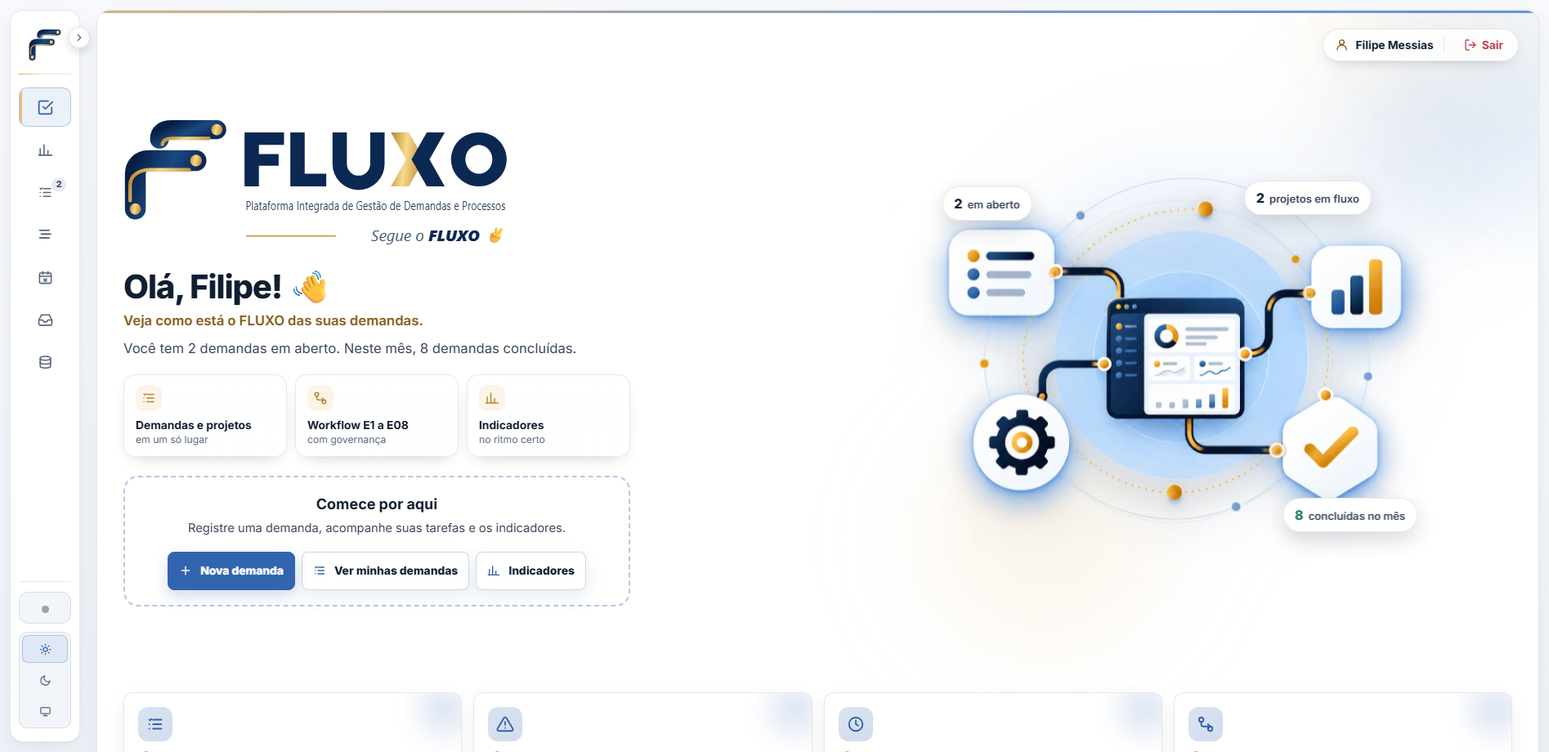
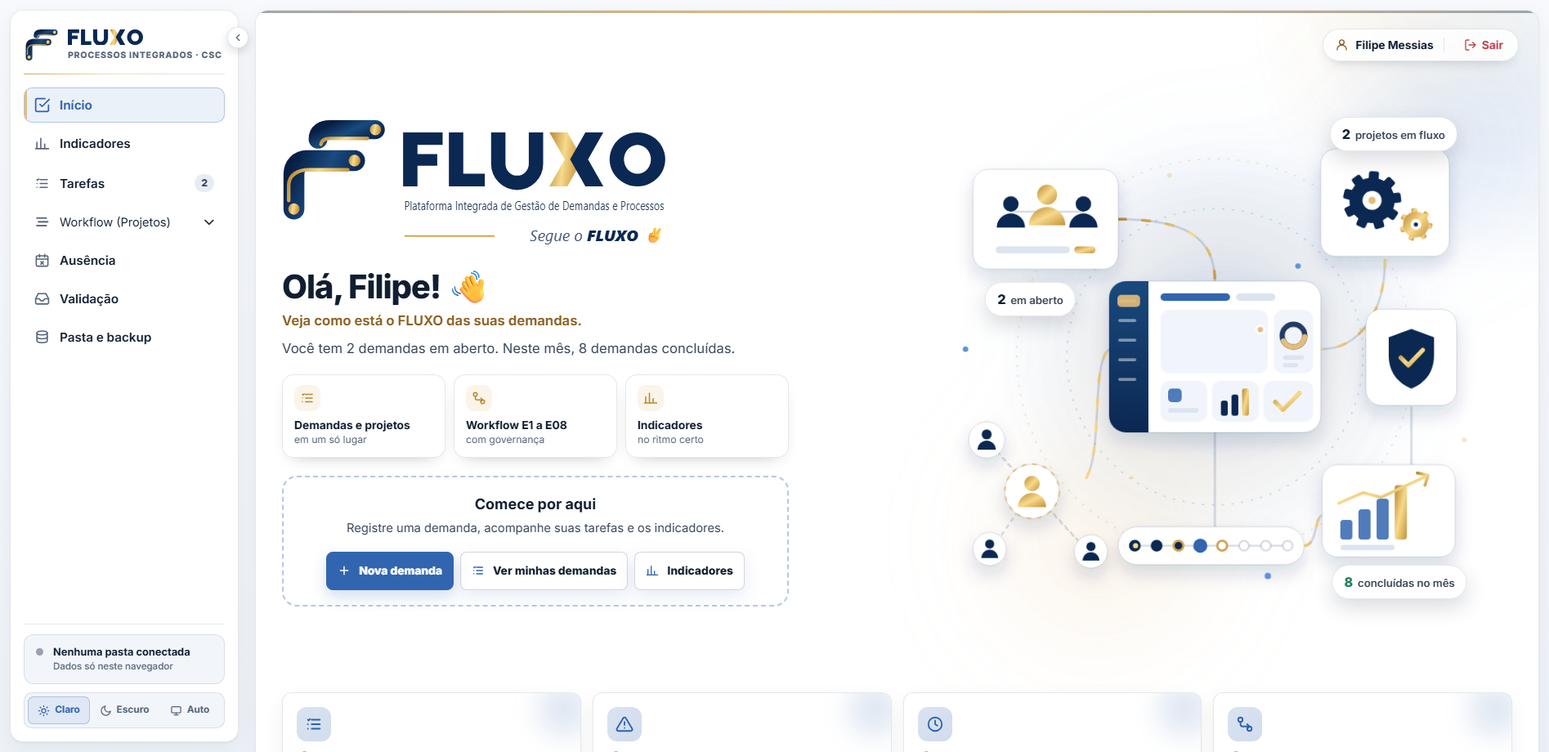
feat: capa do Início com ilustração vetorial do ecossistema de gestão
Vetor animado na coluna direita que reúne pessoas e equipes conectadas,
processos em movimento (engrenagens e trilha do Workflow E1→E08 com gates)
e resultados monitorados (painel, escudo de governança e resultados em
alta). Linhas com pulsos dourados, halo e órbitas; cores pelo tema
(--fx-eco-*), sombras sem recorte e movimento reduzido respeitado.

diff --git a/02-usuario/app/fluxo.css b/02-usuario/app/fluxo.css
@@ -384,24 +384,72 @@ dialog[open] { animation: fxPop var(--fx-base) var(--fx-ease); }
 
 /* ---- Coluna da ilustração ---- */
 .fx-capa-arte { position: relative; min-width: 0; height: 100%; display: flex; flex-direction: column; justify-content: center; gap: clamp(8px, 1.4dvh, 18px); perspective: 1000px; }
-.fx-capa-palco { position: relative; isolation: isolate; width: min(100%, 740px); margin: 0 auto; transform: rotateX(var(--fx-rx)) rotateY(var(--fx-ry)); transform-style: preserve-3d; transition: transform .25s ease-out; will-change: transform; }
-.fx-capa-palco::before { content: ''; position: absolute; inset: 14% 15%; z-index: -1; border-radius: 50%; background: radial-gradient(circle, rgba(57,116,198,.17), rgba(230,188,121,.08) 42%, transparent 72%); filter: blur(18px); pointer-events: none; animation: fxHaloRespira 8s ease-in-out infinite; }
-.fx-capa-palco::after { content: ''; position: absolute; inset: 10% 24%; z-index: 0; border: 1px dashed rgba(210,164,82,.24); border-radius: 50%; pointer-events: none; animation: fxOrbita 44s linear infinite; }
-.fx-capa-imagem { position: relative; z-index: 1; display: block; width: 100%; height: auto; aspect-ratio: 3 / 2; object-fit: contain; filter: drop-shadow(0 18px 25px rgba(16,30,48,.11)); animation: fxArteFlutua 8s ease-in-out infinite; }
-.fx-capa-pulso { position: absolute; z-index: 2; width: 12px; height: 12px; border: 2px solid rgba(230,188,121,.8); border-radius: 50%; transform: translate(-50%,-50%); box-shadow: 0 0 0 0 rgba(230,188,121,.4); pointer-events: none; animation: fxNoPulso 3.6s ease-out infinite; }
-.fx-pulso-lista { left: 30%; top: 28%; }
-.fx-pulso-grafico { left: 72%; top: 33%; animation-delay: 1.2s; }
-.fx-pulso-aprovacao { left: 67%; top: 72%; animation-delay: 2.4s; }
-@keyframes fxArteFlutua { 0%,100% { transform: translateY(0); } 50% { transform: translateY(-6px); } }
-@keyframes fxOrbita { to { transform: rotate(360deg); } }
-@keyframes fxHaloRespira { 0%,100% { opacity: .55; transform: scale(.96); } 50% { opacity: 1; transform: scale(1.05); } }
-@keyframes fxNoPulso { 0%,100% { box-shadow: 0 0 0 0 rgba(230,188,121,.4); opacity: .8; } 55% { box-shadow: 0 0 0 12px rgba(230,188,121,0); opacity: 1; } }
+.fx-capa-palco { position: relative; isolation: isolate; width: min(100%, 820px); margin: 0 auto; transform: rotateX(var(--fx-rx)) rotateY(var(--fx-ry)); transform-style: preserve-3d; transition: transform .25s ease-out; will-change: transform; }
+/* Ecossistema de gestão (vetor): cores do tema claro; o escuro troca as variáveis */
+.fx-capa { --fx-eco-card: #FFFFFF; --fx-eco-sub: #F1F5FB; --fx-eco-ink: #0B2852; --fx-eco-linha: rgba(11, 40, 82, .16); --fx-eco-barra: #DCE4F0; }
+:root[data-theme="dark"] .fx-capa { --fx-eco-card: #1E3350; --fx-eco-sub: #253D5C; --fx-eco-ink: #E2E8F0; --fx-eco-linha: rgba(226, 232, 240, .18); --fx-eco-barra: #34506F; }
+@media (prefers-color-scheme: dark) { :root:not([data-theme="light"]) .fx-capa { --fx-eco-card: #1E3350; --fx-eco-sub: #253D5C; --fx-eco-ink: #E2E8F0; --fx-eco-linha: rgba(226, 232, 240, .18); --fx-eco-barra: #34506F; } }
+.fx-capa-svg.fx-eco { display: block; width: 100%; height: auto; overflow: visible; }
+.fx-eco-card { fill: var(--fx-eco-card); stroke: var(--fx-eco-linha); stroke-width: 1; }
+.fx-eco-sub { fill: var(--fx-eco-sub); }
+.fx-eco-barra { fill: var(--fx-eco-barra); }
+.fx-eco-barra-ouro, .fx-eco-barras .fx-eco-barra-ouro { fill: url(#fxEcoOuro); }
+.fx-eco-pessoa { fill: var(--fx-eco-ink); }
+.fx-eco-pessoa.fx-eco-ouro { fill: url(#fxEcoOuro); }
+.fx-eco-traco-fino { fill: none; stroke: var(--fx-eco-linha); stroke-width: 2.5; stroke-linecap: round; }
+.fx-eco-tracejado { stroke-dasharray: 4 7; animation: fxEcoFlui 2.4s linear infinite; }
+.fx-eco-anel { fill: none; stroke: #E6BC79; stroke-width: 2; stroke-dasharray: 6 8; transform-box: fill-box; transform-origin: center; animation: fxEcoGira 16s linear infinite; }
+.fx-eco-ligacoes path { fill: none; stroke: var(--fx-eco-linha); stroke-width: 3; stroke-linecap: round; }
+.fx-eco-fluxo use { fill: none; stroke: url(#fxEcoOuro); stroke-width: 3.5; stroke-linecap: round; stroke-dasharray: 10 22; animation: fxEcoFlui 1.8s linear infinite; }
+.fx-eco-engrenagem { fill: var(--fx-eco-ink); transform-box: fill-box; transform-origin: center; }
+.fx-eco-engrenagem.fx-eco-ouro { fill: url(#fxEcoOuro); }
+.fx-eco-engrenagem .fx-eco-furo { fill: var(--fx-eco-card); }
+.fx-eco-engrenagem .fx-eco-eixo { fill: #E6BC79; }
+.fx-eco-engrenagem.fx-eco-ouro .fx-eco-eixo { fill: var(--fx-eco-ink); }
+.fx-eco-gira { animation: fxEcoGira 10s linear infinite; }
+.fx-eco-gira-inversa { animation: fxEcoGira 6s linear infinite reverse; }
+.fx-capa.fx-ativa .fx-eco-gira { animation-duration: 5s; }
+.fx-capa.fx-ativa .fx-eco-gira-inversa { animation-duration: 3s; }
+.fx-eco-menu { fill: none; stroke: rgba(255, 255, 255, .45); stroke-width: 4; stroke-linecap: round; }
+.fx-eco-grafico { fill: none; stroke: url(#fxEcoOuro); stroke-width: 4; stroke-linecap: round; stroke-linejoin: round; stroke-dasharray: 200; stroke-dashoffset: 0; animation: fxEcoDesenha 2.4s var(--fx-ease) .5s backwards; }
+.fx-eco-ponto { fill: #E6BC79; stroke: var(--fx-eco-card); stroke-width: 3; transform-box: fill-box; transform-origin: center; animation: fxEcoPulso 2.4s ease-in-out infinite; }
+.fx-eco-rosca { fill: none; stroke: var(--fx-eco-ink); stroke-width: 7; opacity: .9; }
+.fx-eco-rosca-ouro { fill: none; stroke: #E6BC79; stroke-width: 7; stroke-dasharray: 38 95; stroke-linecap: round; transform-box: fill-box; transform-origin: center; animation: fxEcoGira 7s linear infinite; }
+.fx-eco-barras rect { fill: var(--fx-eco-ink); transform-box: fill-box; transform-origin: bottom; animation: fxEcoCresce 3.2s ease-in-out infinite; }
+.fx-eco-barras rect:nth-child(2) { animation-delay: .3s; } .fx-eco-barras rect:nth-child(3) { animation-delay: .6s; } .fx-eco-barras rect:nth-child(4) { animation-delay: .9s; }
+.fx-eco-barras-2 rect:not(.fx-eco-barra-ouro) { fill: #3265AF; opacity: .85; }
+.fx-eco-check { fill: none; stroke: url(#fxEcoOuro); stroke-width: 6; stroke-linecap: round; stroke-linejoin: round; stroke-dasharray: 50; stroke-dashoffset: 0; animation: fxEcoDesenha 1.2s var(--fx-ease) 1s backwards; }
+.fx-eco-check-2 { animation-delay: 1.4s; }
+.fx-eco-escudo { fill: var(--fx-eco-ink); }
+.fx-eco-tendencia { fill: none; stroke: url(#fxEcoOuro); stroke-width: 4; stroke-linecap: round; stroke-linejoin: round; }
+.fx-eco-etapa { fill: var(--fx-eco-card); stroke: var(--fx-eco-linha); stroke-width: 2.5; }
+.fx-eco-etapa.feita { fill: var(--fx-eco-ink); stroke: var(--fx-eco-ink); }
+.fx-eco-etapa.gate { stroke: #D2A452; stroke-width: 3; }
+.fx-eco-etapa.atual { fill: #3265AF; stroke: #3265AF; transform-box: fill-box; transform-origin: center; animation: fxEcoPulso 2.2s ease-in-out infinite; }
+.fx-eco-viajante { fill: #F7DA8C; animation: fxEcoViaja 4.5s ease-in-out infinite; }
+.fx-eco-halo { transform-box: fill-box; transform-origin: center; animation: fxEcoRespira 7s ease-in-out infinite; }
+.fx-eco-orbita { fill: none; stroke: rgba(210, 164, 82, .3); stroke-width: 1.5; stroke-dasharray: 3 10; transform-box: fill-box; transform-origin: center; animation: fxEcoGira 70s linear infinite; }
+.fx-eco-orbita-2 { stroke: rgba(57, 116, 198, .28); animation-duration: 46s; animation-direction: reverse; }
+.fx-eco-flutua { animation: fxEcoFlutua 6s ease-in-out infinite; }
+.fx-eco-no-pessoa { animation: fxEcoFlutua 5s ease-in-out infinite; }
+.fx-eco-atraso-1 { animation-delay: -1.5s; } .fx-eco-atraso-2 { animation-delay: -3s; } .fx-eco-atraso-3 { animation-delay: -4.5s; }
+.fx-eco-brilhos circle { fill: #E6BC79; transform-box: fill-box; transform-origin: center; animation: fxEcoBrilha 3.6s ease-in-out infinite; }
+.fx-eco-brilhos circle:nth-child(even) { fill: #5B92DD; animation-delay: -1.8s; }
+@keyframes fxEcoGira { to { transform: rotate(360deg); } }
+@keyframes fxEcoFlui { to { stroke-dashoffset: -64; } }
+@keyframes fxEcoDesenha { from { stroke-dashoffset: 200; } to { stroke-dashoffset: 0; } }
+@keyframes fxEcoPulso { 0%, 100% { transform: scale(1); } 50% { transform: scale(1.28); } }
+@keyframes fxEcoCresce { 0%, 100% { transform: scaleY(1); } 50% { transform: scaleY(.72); } }
+@keyframes fxEcoViaja { 0% { transform: translateX(0); } 50% { transform: translateX(202px); } 100% { transform: translateX(0); } }
+@keyframes fxEcoRespira { 0%, 100% { opacity: .7; transform: scale(.97); } 50% { opacity: 1; transform: scale(1.03); } }
+@keyframes fxEcoFlutua { 0%, 100% { transform: translateY(0); } 50% { transform: translateY(-5px); } }
+@keyframes fxEcoBrilha { 0%, 100% { opacity: .35; transform: scale(.8); } 50% { opacity: 1; transform: scale(1.2); } }
 /* Etiquetas flutuantes com dados reais (como as etiquetas do mapa nas demais capas) */
 .fx-capa-chip { position: absolute; z-index: 3; transform: translate(-50%, -50%) translateZ(40px); display: inline-flex; align-items: baseline; gap: 6px; padding: 8px 14px; border-radius: 999px; background: var(--fx-surface); color: var(--fx-ink-2); font-size: .82rem; font-weight: 600; white-space: nowrap; box-shadow: 0 10px 26px rgba(16, 30, 48, .16); border: 1px solid var(--fx-line); animation: fxChip 5s ease-in-out infinite; }
 .fx-capa-chip b { font-family: var(--fx-font-num); font-size: 1rem; font-weight: 800; color: var(--fx-ink); }
-.fx-chip-doc { left: 19%; top: 12%; }
-.fx-chip-gear { left: 72%; top: 10%; animation-delay: -1.6s; }
-.fx-chip-ok { left: 79%; top: 88%; animation-delay: -3.2s; }
+.fx-chip-doc { left: 19%; top: 38%; }
+.fx-chip-gear { left: 80%; top: 7%; animation-delay: -1.6s; }
+.fx-chip-ok { left: 81%; top: 93%; animation-delay: -3.2s; }
 .fx-chip-ok b { color: var(--fx-success); }
 @keyframes fxChip { 0%, 100% { margin-top: 0; } 50% { margin-top: -6px; } }
 /* Legenda no rodapé da ilustração */
@@ -430,13 +478,13 @@ dialog[open] { animation: fxPop var(--fx-base) var(--fx-ease); }
   .fx-capa-conteudo .fx-home-marca { width: min(300px, 100%); }
   .fx-capa-acoes { padding: 18px 14px; }
   .fx-capa-chip { font-size: .7rem; padding: 6px 9px; }
-  .fx-chip-doc { left: 18%; top: 12%; }
-  .fx-chip-gear { left: 72%; }
+  .fx-chip-doc { left: 20%; top: 36%; }
+  .fx-chip-gear { left: 76%; }
 }
 @media (prefers-reduced-motion: reduce) {
   .fx-capa-aurora, .fx-capa-conteudo .primary-actions .cta::after { display: none; }
   .fx-capa-palco { transform: none; }
-  .fx-capa-palco::before, .fx-capa-palco::after, .fx-capa-imagem, .fx-capa-pulso, .fx-capa-chip, .fx-entrada .fx-capa-conteudo > *, .fx-entrada .fx-capa-arte { animation: none; }
+  .fx-capa-palco *, .fx-capa-chip, .fx-entrada .fx-capa-conteudo > *, .fx-entrada .fx-capa-arte { animation: none; }
 }
 
 /* Destaques do sistema na capa: trio de cartões leves (ícone dourado + título + complemento) */

diff --git a/02-usuario/app/pgd.js b/02-usuario/app/pgd.js
@@ -4268,7 +4268,114 @@ function navItems() {
 const FX_PALAVRA = '<img class="fx-wordmark fx-claro" src="../app/marca/fluxo-wordmark.svg" alt="FLUXO"><img class="fx-wordmark fx-escuro" src="../app/marca/fluxo-wordmark-dark.svg" alt="FLUXO">';
 const FX_MARCA_INICIO = '<div class="fx-home-marca"><img class="fx-claro" src="../app/marca/fluxo-logo-assinatura.svg" alt="FLUXO · Plataforma Integrada de Gestão de Demandas e Processos · Segue o FLUXO"><img class="fx-escuro" src="../app/marca/fluxo-logo-assinatura-dark.svg" alt="FLUXO · Plataforma Integrada de Gestão de Demandas e Processos · Segue o FLUXO"></div>';
 // Capa do Início: imagem preparada a partir da ilustração fornecida pelo usuário.
-const FX_CAPA_ARTE = '<img class="fx-capa-imagem" src="../app/marca/fluxo-capa-processos.png" alt="" width="1536" height="1024" decoding="async">';
+// Capa do Início: ecossistema de gestão (pessoas conectadas → processos em movimento → resultados monitorados).
+// Vetor animado por CSS (classes fx-eco-*); as cores seguem o tema pelas variáveis --fx-eco-*.
+function fxEcoPessoa(cx, cy, s, cls) {
+  return `<g class="fx-eco-pessoa ${cls || ''}"><circle cx="${cx}" cy="${cy - s * .42}" r="${s * .3}"/><path d="M${cx - s * .55} ${cy + s * .5}a${s * .55} ${s * .55} 0 0 1 ${s * 1.1} 0z"/></g>`;
+}
+function fxEcoEngrenagem(cx, cy, r, n, cls) {
+  const dentes = Array.from({ length:n }, (_, i) => `<rect x="${cx - r * .22}" y="${cy - r * 1.28}" width="${r * .44}" height="${r * .5}" rx="${r * .1}" transform="rotate(${i * 360 / n} ${cx} ${cy})"/>`).join('');
+  return `<g class="fx-eco-engrenagem ${cls}">${dentes}<circle cx="${cx}" cy="${cy}" r="${r}"/><circle cx="${cx}" cy="${cy}" r="${r * .42}" class="fx-eco-furo"/><circle cx="${cx}" cy="${cy}" r="${r * .16}" class="fx-eco-eixo"/></g>`;
+}
+const FX_CAPA_ARTE = `<svg class="fx-capa-svg fx-eco" viewBox="-34 -28 788 690" role="img" aria-label="Ecossistema de gestão: equipes conectadas, processos em movimento e resultados monitorados">
+  <defs>
+    <radialGradient id="fxEcoHalo" cx="50%" cy="50%" r="50%"><stop offset="0" stop-color="#3974C6" stop-opacity=".20"/><stop offset=".55" stop-color="#E6BC79" stop-opacity=".10"/><stop offset="1" stop-color="#3974C6" stop-opacity="0"/></radialGradient>
+    <linearGradient id="fxEcoOuro" x1="0" y1="0" x2="1" y2="1"><stop offset="0" stop-color="#B8862F"/><stop offset=".5" stop-color="#F7DA8C"/><stop offset="1" stop-color="#C6913A"/></linearGradient>
+    <linearGradient id="fxEcoAzul" x1="0" y1="0" x2="0" y2="1"><stop offset="0" stop-color="#1A4A7E"/><stop offset="1" stop-color="#0B2852"/></linearGradient>
+    <filter id="fxEcoSombra" filterUnits="userSpaceOnUse" x="-60" y="-60" width="840" height="760"><feDropShadow dx="0" dy="12" stdDeviation="12" flood-color="#0B2852" flood-opacity=".16"/></filter>
+  </defs>
+
+  <circle cx="360" cy="310" r="300" fill="url(#fxEcoHalo)" class="fx-eco-halo"/>
+  <circle cx="360" cy="310" r="262" class="fx-eco-orbita"/>
+  <circle cx="360" cy="310" r="196" class="fx-eco-orbita fx-eco-orbita-2"/>
+
+  <!-- Conexões: pessoas → painel, processos → painel, painel → workflow → resultados, governança → resultados -->
+  <g class="fx-eco-ligacoes">
+    <path id="fxEcoL1" d="M232 128C318 128 360 150 360 210"/>
+    <path id="fxEcoL2" d="M585 182C585 250 552 300 500 300"/>
+    <path id="fxEcoL3" d="M190 470C212 430 196 320 220 300"/>
+    <path id="fxEcoL4" d="M360 410V535"/>
+    <path id="fxEcoL5" d="M478 560C496 560 492 520 502 520"/>
+    <path id="fxEcoL6" d="M620 377V455"/>
+  </g>
+  <g class="fx-eco-fluxo">
+    <use href="#fxEcoL1"/><use href="#fxEcoL2" class="fx-eco-atraso-1"/><use href="#fxEcoL3" class="fx-eco-atraso-2"/>
+    <use href="#fxEcoL4" class="fx-eco-atraso-1"/><use href="#fxEcoL5" class="fx-eco-atraso-3"/><use href="#fxEcoL6" class="fx-eco-atraso-2"/>
+  </g>
+
+  <!-- Equipe conectada (cartão) -->
+  <g class="fx-eco-cartao fx-eco-flutua">
+    <rect x="40" y="62" width="192" height="132" rx="20" class="fx-eco-card" filter="url(#fxEcoSombra)"/>
+    <path d="M92 118H185" class="fx-eco-traco-fino"/>
+    ${fxEcoPessoa(90, 122, 34)}${fxEcoPessoa(186, 122, 34)}${fxEcoPessoa(138, 114, 44, 'fx-eco-ouro')}
+    <rect x="70" y="164" width="98" height="9" rx="4.5" class="fx-eco-barra"/><rect x="174" y="164" width="28" height="9" rx="4.5" class="fx-eco-barra-ouro"/>
+  </g>
+
+  <!-- Rede de pessoas (colaboração) -->
+  <g class="fx-eco-rede">
+    <path d="M118 488L58 420M118 488L62 568M118 488L196 572M58 420L196 572" class="fx-eco-traco-fino fx-eco-tracejado"/>
+    <g class="fx-eco-no-pessoa"><circle cx="58" cy="420" r="24" class="fx-eco-card" filter="url(#fxEcoSombra)"/>${fxEcoPessoa(58, 422, 22)}</g>
+    <g class="fx-eco-no-pessoa fx-eco-atraso-1"><circle cx="62" cy="568" r="22" class="fx-eco-card" filter="url(#fxEcoSombra)"/>${fxEcoPessoa(62, 570, 20)}</g>
+    <g class="fx-eco-no-pessoa fx-eco-atraso-2"><circle cx="196" cy="572" r="22" class="fx-eco-card" filter="url(#fxEcoSombra)"/>${fxEcoPessoa(196, 574, 20)}</g>
+    <circle cx="118" cy="488" r="36" class="fx-eco-card" filter="url(#fxEcoSombra)"/>
+    <circle cx="118" cy="488" r="36" class="fx-eco-anel"/>
+    ${fxEcoPessoa(118, 492, 34, 'fx-eco-ouro')}
+  </g>
+
+  <!-- Processos em movimento (engrenagens) -->
+  <g class="fx-eco-cartao fx-eco-flutua fx-eco-atraso-2">
+    <rect x="500" y="40" width="170" height="142" rx="20" class="fx-eco-card" filter="url(#fxEcoSombra)"/>
+    ${fxEcoEngrenagem(568, 108, 30, 9, 'fx-eco-gira')}
+    ${fxEcoEngrenagem(626, 140, 17, 7, 'fx-eco-gira-inversa fx-eco-ouro')}
+  </g>
+
+  <!-- Resultados monitorados (painel central) -->
+  <g class="fx-eco-painel">
+    <rect x="220" y="210" width="280" height="200" rx="22" class="fx-eco-card" filter="url(#fxEcoSombra)"/>
+    <path d="M242 210H272V410H242A22 22 0 0 1 220 388V232A22 22 0 0 1 242 210Z" fill="url(#fxEcoAzul)"/>
+    <path d="M234 236h20M234 262h20M234 288h20M234 314h20M234 340h20" class="fx-eco-menu"/>
+    <rect x="231" y="228" width="30" height="16" rx="5" fill="#E6BC79" opacity=".9"/>
+    <rect x="288" y="226" width="92" height="10" rx="5" fill="#3265AF"/><rect x="388" y="226" width="52" height="10" rx="5" class="fx-eco-barra"/>
+    <rect x="288" y="248" width="142" height="84" rx="12" class="fx-eco-sub"/>
+    <path d="M298 314C310 300 318 296 328 304S348 320 360 298S384 280 398 292S414 302 420 274" class="fx-eco-grafico"/>
+    <circle cx="420" cy="274" r="5" class="fx-eco-ponto"/>
+    <rect x="438" y="248" width="52" height="84" rx="12" class="fx-eco-sub"/>
+    <circle cx="464" cy="282" r="15" class="fx-eco-rosca"/>
+    <circle cx="464" cy="282" r="15" class="fx-eco-rosca-ouro"/>
+    <rect x="450" y="308" width="28" height="6" rx="3" class="fx-eco-barra"/><rect x="450" y="318" width="20" height="6" rx="3" class="fx-eco-barra"/>
+    <rect x="288" y="342" width="62" height="54" rx="12" class="fx-eco-sub"/>
+    <rect x="356" y="342" width="62" height="54" rx="12" class="fx-eco-sub"/>
+    <rect x="424" y="342" width="66" height="54" rx="12" class="fx-eco-sub"/>
+    <rect x="298" y="352" width="18" height="18" rx="5" fill="#3265AF" opacity=".85"/><rect x="298" y="378" width="40" height="6" rx="3" class="fx-eco-barra"/>
+    <g class="fx-eco-barras"><rect x="368" y="368" width="9" height="20" rx="3"/><rect x="382" y="360" width="9" height="28" rx="3"/><rect x="396" y="352" width="9" height="36" rx="3" class="fx-eco-barra-ouro"/></g>
+    <path d="M440 370l10 10 22-22" class="fx-eco-check"/>
+  </g>
+
+  <!-- Governança (escudo) -->
+  <g class="fx-eco-cartao fx-eco-flutua fx-eco-atraso-1">
+    <rect x="560" y="250" width="120" height="127" rx="20" class="fx-eco-card" filter="url(#fxEcoSombra)"/>
+    <path d="M620 276l30 11v24c0 23-13 37-30 44c-17-7-30-21-30-44v-24z" class="fx-eco-escudo"/>
+    <path d="M606 314l10 10 19-20" class="fx-eco-check fx-eco-check-2"/>
+  </g>
+
+  <!-- Resultados em alta -->
+  <g class="fx-eco-cartao fx-eco-flutua fx-eco-atraso-3">
+    <rect x="502" y="455" width="176" height="122" rx="20" class="fx-eco-card" filter="url(#fxEcoSombra)"/>
+    <g class="fx-eco-barras fx-eco-barras-2"><rect x="526" y="528" width="16" height="26" rx="4"/><rect x="550" y="514" width="16" height="40" rx="4"/><rect x="574" y="500" width="16" height="54" rx="4"/><rect x="598" y="482" width="16" height="72" rx="4" class="fx-eco-barra-ouro"/></g>
+    <path d="M524 506L556 492L580 498L640 470" class="fx-eco-tendencia"/><path d="M628 466L642 469L638 482" class="fx-eco-tendencia"/>
+    <rect x="526" y="561" width="72" height="7" rx="3.5" class="fx-eco-barra"/>
+  </g>
+
+  <!-- Workflow E1 → E08 (processo em movimento) -->
+  <g class="fx-eco-trilha">
+    <rect x="232" y="535" width="246" height="50" rx="25" class="fx-eco-card" filter="url(#fxEcoSombra)"/>
+    <path d="M254 560H456" class="fx-eco-traco-fino"/>
+    ${Array.from({ length:8 }, (_, i) => `<circle cx="${254 + i * 28.9}" cy="560" r="${i === 3 ? 8 : 6.5}" class="fx-eco-etapa${i < 3 ? ' feita' : i === 3 ? ' atual' : ''}${i === 2 || i === 4 ? ' gate' : ''}"/>`).join('')}
+    <circle cx="254" cy="560" r="3.5" class="fx-eco-viajante"/>
+  </g>
+
+  <g class="fx-eco-brilhos"><circle cx="300" cy="70" r="4"/><circle cx="470" cy="190" r="3"/><circle cx="690" cy="420" r="4"/><circle cx="30" cy="300" r="3"/><circle cx="250" cy="470" r="3"/><circle cx="430" cy="600" r="3.5"/></g>
+</svg>`;
 // Entrada em cascata só na primeira exibição da capa (a tela é redesenhada a cada sincronização)
 let fxCapaJaAnimada = false;
 const fxCapaEntrada = () => { if (fxCapaJaAnimada) return ''; fxCapaJaAnimada = true; return ' fx-entrada'; };
@@ -4513,9 +4620,6 @@ function renderHome() {
       <div class="fx-capa-arte">
         <div class="fx-capa-palco" aria-hidden="true">
           ${FX_CAPA_ARTE}
-          <span class="fx-capa-pulso fx-pulso-lista"></span>
-          <span class="fx-capa-pulso fx-pulso-grafico"></span>
-          <span class="fx-capa-pulso fx-pulso-aprovacao"></span>
           <span class="fx-capa-chip fx-chip-doc"><b>${open.length}</b> ${open.length === 1 ? 'em aberto' : 'em aberto'}</span>
           <span class="fx-capa-chip fx-chip-gear"><b>${wfAbertos}</b> ${wfAbertos === 1 ? 'projeto em fluxo' : 'projetos em fluxo'}</span>
           <span class="fx-capa-chip fx-chip-ok"><b>${doneMonth}</b> ${doneMonth === 1 ? 'concluída no mês' : 'concluídas no mês'}</span>

diff --git a/02-usuario/app/marca/README.md b/02-usuario/app/marca/README.md
@@ -34,7 +34,7 @@ A palavra FLUXO é desenhada como vetor (não é texto em fonte). Por isso apare
 | `fluxo-logo-completa.svg` / `fluxo-logo-dark.svg` | Símbolo + FLUXO + descrição institucional | Área institucional do login (versão escura) e materiais |
 | `fluxo-logo-assinatura.svg` / `fluxo-logo-assinatura-dark.svg` | Logo completa + "Segue o FLUXO ✌" (composição da prancha) | Topo da tela Início |
 | `fluxo-favicon.svg` | Símbolo sobre quadrado branco arredondado (legível em abas claras e escuras) | Favicon de todas as páginas |
-| `fluxo-capa-processos.png` | Ilustração de processos preparada a partir da imagem anexada pelo usuário, com fundo transparente | Capa do Início, nos temas claro e escuro |
+| `fluxo-capa-processos.png` | Ilustração de processos preparada a partir da imagem anexada pelo usuário, com fundo transparente | Reserva. A capa do Início passou a usar o vetor do ecossistema (`FX_CAPA_ARTE` em `../pgd.js`) |
 | `gerar-marca.js` | Gerador de todos os SVGs a partir de uma única geometria | Para ajustar a marca: altere o script e rode `node gerar-marca.js .` nesta pasta |
 
 ## Aplicação nas telas
@@ -44,7 +44,7 @@ A palavra FLUXO é desenhada como vetor (não é texto em fonte). Por isso apare
 | Menu lateral expandido | Sem cartão: símbolo + palavra FLUXO + "Processos Integrados · CSC" alinhados, com um filete dourado separando do menu. O botão de recolher é um círculo discreto na borda do menu |
 | Barra do topo direito | Nome do usuário conectado (dinâmico) | Sair |
 | Menu lateral recolhido | Só o símbolo, centralizado; o botão de abrir continua na borda |
-| Início (analista e supervisão) | Capa de largura total. À esquerda: logo completa com descrição e slogan, saudação, resumo, três cartões de destaque e a área "Comece por aqui". À direita: a imagem de processos com etiquetas de números reais. Os cartões de indicador vêm abaixo |
+| Início (analista e supervisão) | Capa de largura total. À esquerda: logo completa com descrição e slogan, saudação, resumo, três cartões de destaque e a área "Comece por aqui". À direita: o ecossistema de gestão (vetor animado) com etiquetas de números reais. Os cartões de indicador vêm abaixo |
 | Login: área institucional | Logo completa (versão escura) no topo esquerdo; "Segue o FLUXO ✌" com FLUXO em dourado animado. Efeitos: rede com pulsos dourados, nós pulsando, aurora e luz que segue o cursor |
 | Login: cartão de acesso | Símbolo + FLUXO, acima de "Acesse o FLUXO". Cartão de vidro com borda viva (dourado ↔ azul) e reflexo no botão Entrar. Abaixo: "FLUXO · Sua gestão no ritmo certo." e "Elaborado: Processos Integrados". Com "reduzir animações", os movimentos param |
 | Telas internas (Tarefas, Workflow, Indicadores, Validação, Ausência, Pasta e backup, Dashboard) | Marca compacta do menu lateral; a logo completa não se repete |
@@ -59,7 +59,13 @@ Cada local carrega a versão clara e a escura do ativo. A regra `.fx-claro` / `.
 
 A capa ocupa toda a largura do painel e segue o padrão de capa do CSC (ideia principal à esquerda, ilustração à direita). **À esquerda:** logo completa como título, saudação, resumo e três cartões de destaque (ícone dourado, título e complemento): "Demandas e projetos em um só lugar" (na supervisão, "Equipe e demandas em um só lugar"), "Workflow E1 a E08 com governança" e "Indicadores no ritmo certo" (na supervisão, "Indicadores da área no ritmo certo"). Depois vem a área tracejada "Comece por aqui". Ela tem a mesma largura dos cartões de destaque (até 620 px, variável `--fx-capa-col`), alinhada à esquerda da coluna, sem avançar sobre a ilustração. Os botões são compactos para caberem numa linha e quebram só em telas menores. **À direita:** a ilustração com três etiquetas de números reais (em aberto, projetos em fluxo, concluídas no mês). O estado da pasta fica no rodapé do menu; avisos de ausência continuam aparecendo na capa. No HTML, o conteúdo vem primeiro, então leitores de tela e o celular leem a marca e a saudação antes da ilustração, que é decorativa (`aria-hidden`).
 
-A imagem da capa foi preparada com a ferramenta de edição de imagem a partir do primeiro anexo do usuário, preservando sua composição: tarefas, painel central, gráfico, engrenagem e aprovação conectados. O fundo externo foi removido com transparência real; os cartões e o painel dentro da arte continuam opacos. O arquivo fica em `fluxo-capa-processos.png` e é inserido pelo motor em `../pgd.js` (`FX_CAPA_ARTE`). A área visual cresce até 740 px de largura sem distorção. As três etiquetas sobre a imagem continuam como elementos HTML com valores reais do sistema. A imagem e suas etiquetas são decorativas para leitores de tela; os indicadores acessíveis estão no conteúdo da página.
+**Ecossistema de gestão.** A ilustração é um vetor que segue a linguagem da marca (azul-marinho, dourado, linhas conectadas, profundidade suave) e reúne três ideias:
+
+- **Pessoas e equipes conectadas:** o cartão da equipe e uma rede de pessoas ligadas.
+- **Processos em movimento:** as engrenagens girando e a trilha do Workflow E1 → E08, com a etapa atual pulsando e os gates E3 e E5 com aro dourado.
+- **Resultados monitorados:** o painel central (gráfico, rosca e barras), o escudo de governança e o cartão de resultados em alta.
+
+Linhas com pulsos dourados ligam tudo ao painel, com halo e órbitas ao fundo. O vetor fica em `../pgd.js` (`FX_CAPA_ARTE`, com `fxEcoPessoa` e `fxEcoEngrenagem`) e o estilo em `../fluxo.css` (classes `fx-eco-*`). As cores vêm das variáveis `--fx-eco-*`, então a arte acompanha os temas claro e escuro. Ocupa a coluna direita até 820 px. As três etiquetas por cima continuam em HTML, com valores reais do sistema. A arte é decorativa (`aria-hidden`); os indicadores acessíveis estão no conteúdo da página.
 
 **Efeitos**
 
@@ -71,8 +77,9 @@ A imagem da capa foi preparada com a ferramenta de edição de imagem a partir d
 | Inclinação 3D | A ilustração inclina em perspectiva conforme a posição do mouse |
 | Entrada em cascata | Marca, estados, saudação e ações sobem em sequência. Só na primeira exibição, para não repetir a cada sincronização |
 | Etiquetas flutuantes | Os números da ilustração flutuam suavemente, em ritmos diferentes |
-| Órbita e pulsos | Um anel discreto gira atrás da arte; três pontos dourados pulsam nas conexões |
-| Movimento da arte | A imagem flutua alguns pixels e recebe um halo que respira lentamente |
+| Órbitas e halo | Duas órbitas tracejadas giram em sentidos opostos; o halo azul e dourado respira ao fundo |
+| Conexões vivas | Pulsos dourados percorrem as linhas entre equipes, processos, painel e resultados |
+| Ecossistema em movimento | Engrenagens girando (mais rápidas com o mouse), cartões flutuando, gráfico se desenhando, rosca girando, barras oscilando, escudo com check e trilha do Workflow com a etapa atual pulsando |
 | Botão principal | Um reflexo de luz percorre "Nova demanda" de tempos em tempos |
 
 **Boas práticas**
